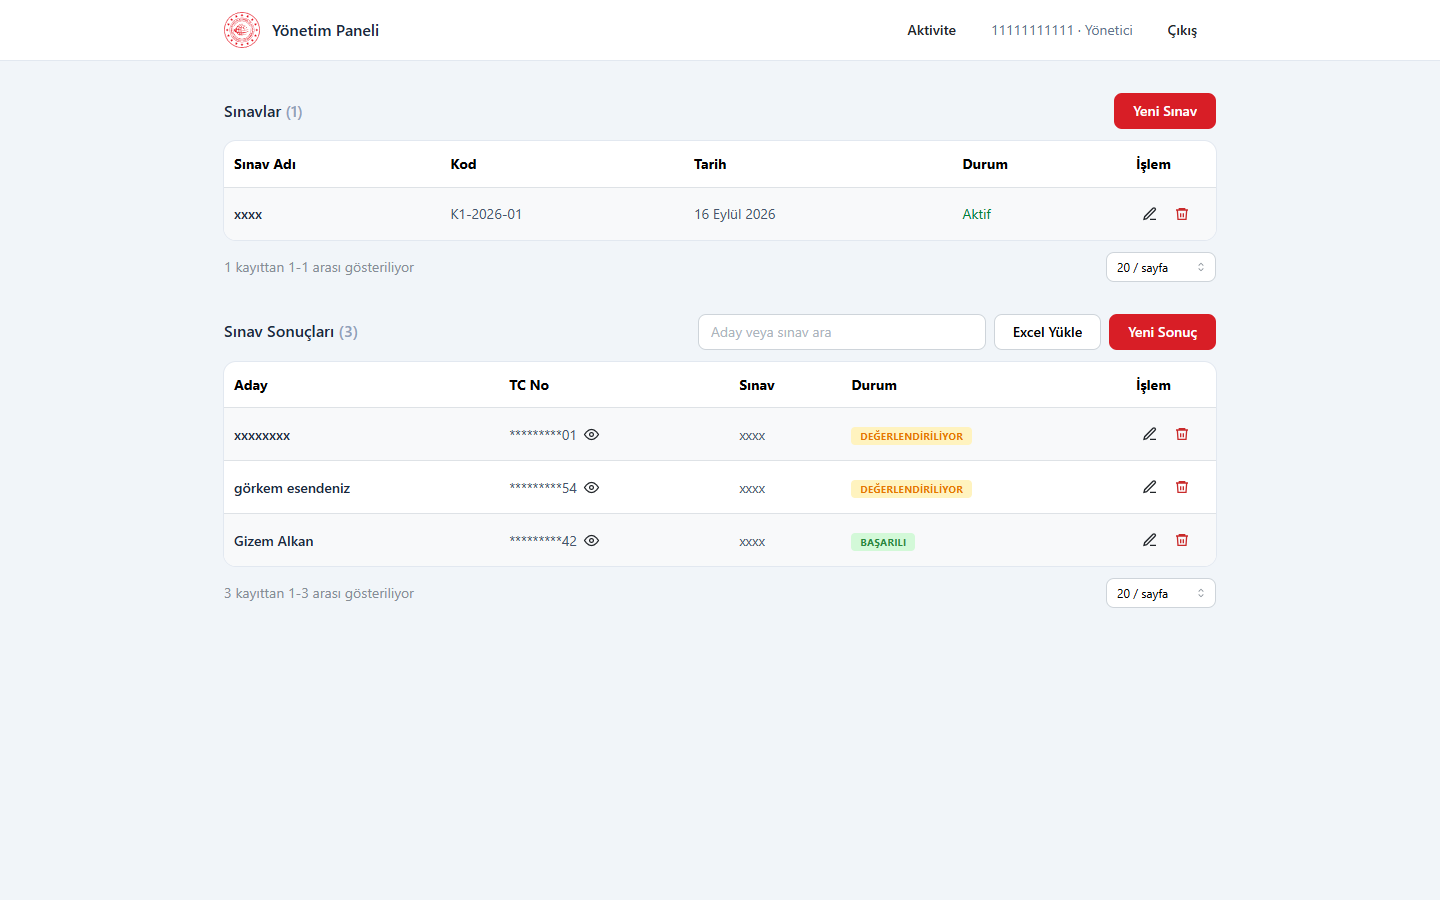
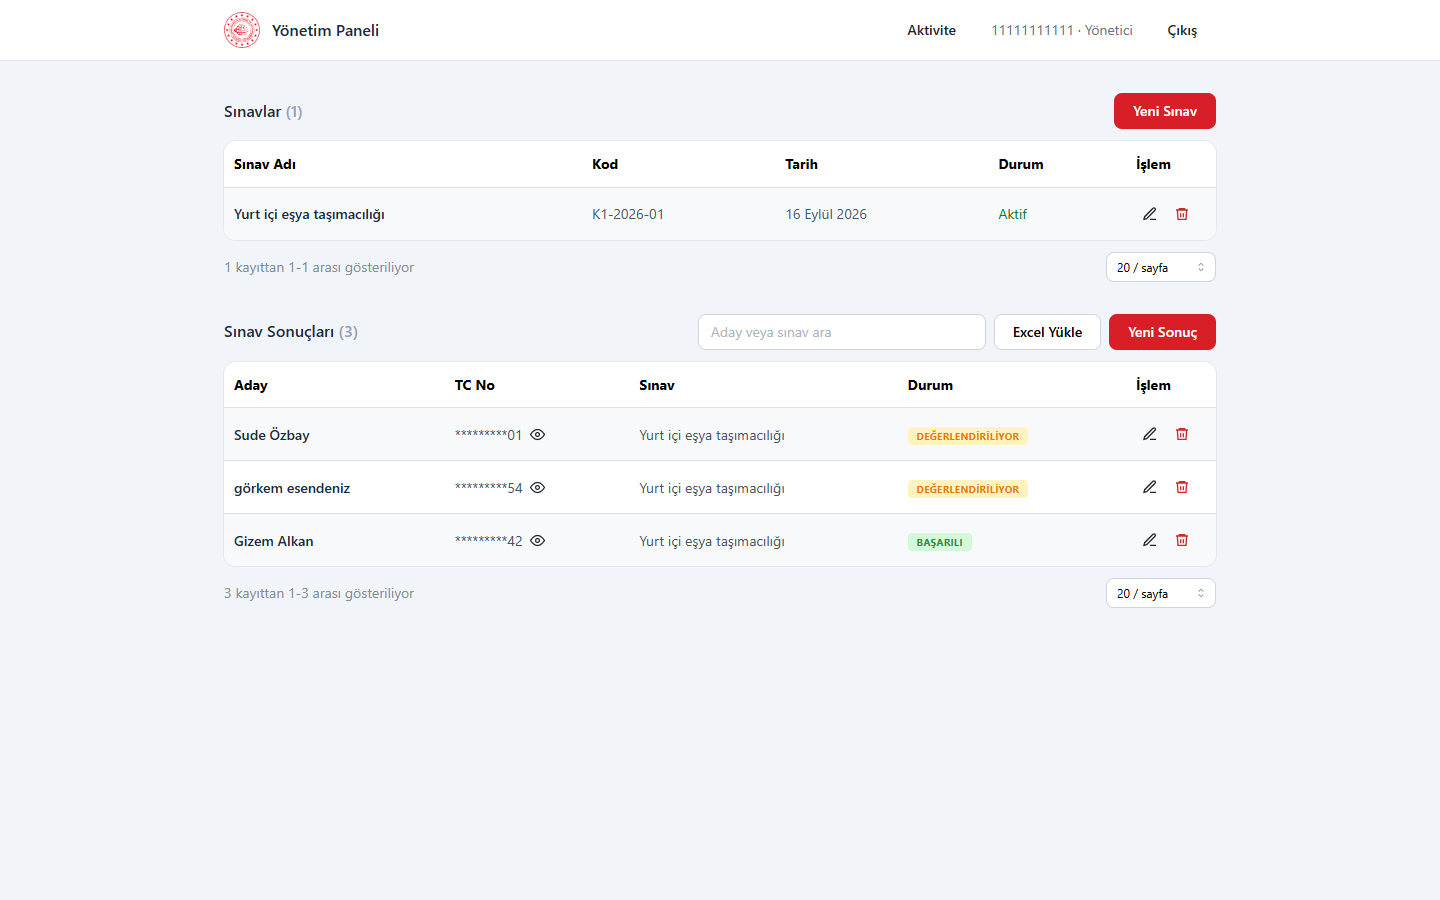
feat: refine UAB project to exact 4 clean screens

diff --git a/src/data.ts b/src/data.ts
@@ -98,8 +98,7 @@ export const projects: { tr: ProjectCategories; en: ProjectCategories } = {
           '/projects/uab/1.png',
           '/projects/uab/2.png',
           '/projects/uab/3.png',
-          '/projects/uab/4.png',
-          '/projects/uab/5.png'
+          '/projects/uab/4.png'
         ]
       },
       {
@@ -162,8 +161,7 @@ export const projects: { tr: ProjectCategories; en: ProjectCategories } = {
           '/projects/uab/1.png',
           '/projects/uab/2.png',
           '/projects/uab/3.png',
-          '/projects/uab/4.png',
-          '/projects/uab/5.png'
+          '/projects/uab/4.png'
         ]
       },
       {
